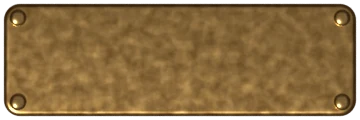
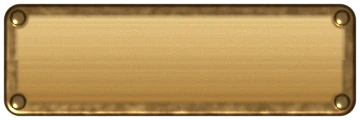
Кнопки читаются: середина табличек — ровный металл со шлифовкой; рама стола снова видна в Safari
Пятнистая кованая фактура под текстом мешала читать и растягивалась на широких кнопках: теперь рант и заклёпки из
рендера, а середина — ровный металл со светом сверху и поперечной шлифовкой (art/ui/build.py, face). Текст контрастнее.
Safari не рисует border-image с var() внутри — у рамы стола толщина теперь в пикселях; на телефоне рама толще (26 px).

Claude-Session: https://claude.ai/code/session_011aycyQpMCHxzpEkC6vRfRo

diff --git a/public/style.css b/public/style.css
@@ -2563,7 +2563,8 @@ svg.av-hover .av-bg, svg.av-hover .av-hero { transition: transform .18s ease-out
   background: radial-gradient(ellipse 75% 70% at 50% 46%, rgb(var(--tb-tint, 255 200 140) / .07), transparent 70%),
     var(--tb-mat, url(/ui/table/v1/mat.webp)) center / cover, #1a110b;
   box-shadow: inset 0 0 0 1px rgb(0 0 0 / .8), inset 0 0 calc(var(--fw) * 1.6) rgb(0 0 0 / .85), inset 0 calc(var(--fw) * .5) calc(var(--fw) * .9) rgb(0 0 0 / .55); }
-.tb-frame { inset: 0; border: var(--fw) solid transparent; border-image: url(/ui/table/v1/frame.webp) 118 / var(--fw) stretch; }
+/* толщина рамы — прямо в пикселях, без var(): Safari не рисует border-image с переменной внутри (на телефоне рама пропадала) */
+.tb-frame { inset: 0; border: 34px solid transparent; border-image: url(/ui/table/v1/frame.webp) 118 / 34px stretch; }
 /* свет: тёплое пятно у свечей и общее мерцание пламени по полю */
 .tb-glow { inset: calc(var(--fw) * .55); border-radius: 4px; mix-blend-mode: screen; opacity: .9;
   background: radial-gradient(ellipse 34% 48% at 6% 6%, rgb(var(--tb-light, 255 160 70) / .32), transparent 70%),
@@ -2611,9 +2612,10 @@ svg.av-hover .av-bg, svg.av-hover .av-hero { transition: transform .18s ease-out
 /* карты на поле отбрасывают тень от света сверху слева */
 .game #stage .stage-inner .card { box-shadow: 0 0 0 1px rgb(0 0 0 / .7), 7px 14px 20px rgb(0 0 0 / .55), 2px 4px 6px rgb(0 0 0 / .45); }
 @media (max-width: 900px) {
-  .table-bg { --fw: 20px; --tb-mat: url(/ui/table/v1/mat-1200.webp); }
-  .game #stage.cave-stage { --fw: 20px; padding: 28px 22px 96px; }
-  .game #stage.cave-stage::before { inset: 20px; }
+  .table-bg { --fw: 26px; --tb-mat: url(/ui/table/v1/mat-1200.webp); }
+  .tb-frame { border-width: 26px; border-image-width: 26px; }
+  .game #stage.cave-stage { --fw: 26px; padding: 32px 26px 96px; }
+  .game #stage.cave-stage::before { inset: 26px; }
   .tp-tl { width: 70px; left: -8px; top: -10px; }
   .tp-tr { width: 60px; right: -6px; top: -8px; }
   .tp-br { width: 72px; right: -6px; bottom: -8px; }
@@ -2793,12 +2795,12 @@ body:has(#world.still) .g-grain { display: none; }
 .btn.danger, .btn.danger:hover:not(:disabled), .btn.hero, .btn.hero:hover:not(:disabled), .btn.spook, .btn.spook:hover:not(:disabled) {
   background: none; border-color: transparent; box-shadow: none; -webkit-backdrop-filter: none; backdrop-filter: none;
 }
-.btn { border: 1px solid transparent; border-image: url(/ui/obj/v1/plate-iron.webp) 36 fill / 11px / 0 stretch; color: #efe4cf;
+.btn { border: 1px solid transparent; border-image: url(/ui/obj/v1/plate-iron.webp) 36 fill / 11px / 0 stretch; color: #f6eedf;
   filter: drop-shadow(0 2px 2px rgb(0 0 0 / .5)); transition: filter .15s, transform .1s; }
-.btn:not(.primary) { text-shadow: 0 -1px 0 rgb(0 0 0 / .8), 0 1px 0 rgb(255 255 255 / .06); }
-.btn.ghost { border-image-source: url(/ui/obj/v1/plate-ghost.webp); color: #e2d6c0; }
-.btn.primary { border-image-source: url(/ui/obj/v1/plate-brass.webp); color: #2a1604; text-shadow: 0 1px 0 rgb(255 232 170 / .55), 0 -1px 0 rgb(70 36 0 / .3); }
-.btn.primary .gi { color: #3c2306; }
+.btn:not(.primary) { text-shadow: 0 1px 2px rgb(0 0 0 / .85); }
+.btn.ghost { border-image-source: url(/ui/obj/v1/plate-ghost.webp); color: #f0e7d8; }
+.btn.primary { border-image-source: url(/ui/obj/v1/plate-brass.webp); color: #1c0e02; text-shadow: 0 1px 0 rgb(255 242 210 / .6); }
+.btn.primary .gi { color: #2a1604; }
 .btn.danger { border-image-source: url(/ui/obj/v1/plate-danger.webp); color: #ffeee6; }
 .btn.hero { border-image-source: url(/ui/obj/v1/plate-hero.webp); color: #effff8; }
 .btn.spook { border-image-source: url(/ui/obj/v1/plate-hero.webp); color: #eef1ff; filter: hue-rotate(95deg) drop-shadow(0 2px 2px rgb(0 0 0 / .5)); }
@@ -2820,8 +2822,8 @@ body:has(#world.still) .g-grain { display: none; }
   color: #eee2cb; text-shadow: 0 -1px 0 rgb(0 0 0 / .8); filter: drop-shadow(0 2px 2px rgb(0 0 0 / .55));
 }
 .game .g-head :is(.market-pill, .contract-pill, .loc-banner, .seat-pill):hover { border-color: transparent; filter: brightness(1.15) drop-shadow(0 2px 2px rgb(0 0 0 / .55)) drop-shadow(0 0 7px rgb(255 196 120 / .3)); }
-.game .g-head :is(.turninfo.mine, .market-pill) { background: none; border-image-source: url(/ui/obj/v1/plate-brass.webp); color: #2a1604; text-shadow: 0 1px 0 rgb(255 232 170 / .5);
-  filter: brightness(1.12) saturate(1.25) drop-shadow(0 2px 2px rgb(0 0 0 / .55)); }
+.game .g-head :is(.turninfo.mine, .market-pill) { background: none; border-image-source: url(/ui/obj/v1/plate-brass.webp); color: #1c0e02; text-shadow: 0 1px 0 rgb(255 242 210 / .55);
+  filter: drop-shadow(0 2px 2px rgb(0 0 0 / .55)); }
 .game .g-head .market-pill .gi { color: #4a2a06; }
 .game .g-head .market-pill.trick { border-image-source: url(/ui/obj/v1/plate-hero.webp); filter: hue-rotate(110deg) drop-shadow(0 2px 2px rgb(0 0 0 / .55)); color: #f6efff; text-shadow: 0 -1px 0 rgb(0 0 0 / .7); }
 .game .g-head .market-pill.trick .gi { color: #f1e2ff; }

diff --git a/art/ui/build.py b/art/ui/build.py
@@ -7,7 +7,8 @@
   parchment.webp       пергамент свитка и ценников (бесшовный, 512 px)
   plank.webp           полка прилавка (бесшовная по горизонтали); boards.webp — задняя стенка лавки; awning.webp — навес
   plate-<вид>.webp     кованые таблички кнопок для border-image (срез 36 px): iron, brass, danger, hero и ghost —
-                       железная оправа с полупрозрачной серединой (собирается здесь из iron)
+                       железная оправа с полупрозрачной серединой (собирается здесь из iron). Рант и заклёпки — из
+                       рендера, середина — ровный металл со шлифовкой (face): на ней читается текст, растяжение не видно
   beam.webp            дубовая балка шапки с коваными хомутами (срез 180 px с торцов)
   roller.webp          валик свитка: пергамент на оси, латунные навершия (срез 120 px с торцов)
   tavern-table.webp    стол лобби-таверны сверху (art/ui/tavern.py): доски, гвозди, потёртости, круги от кружек
@@ -25,19 +26,55 @@ TMP = os.path.expanduser('~/.cache/podzemlei/ui')
 PY = os.environ.get('BLENDER_PY', sys.executable)
 
 
-def ghost(src, dst):
-    """железная оправа: середина таблички полупрозрачная и темнее, рант и заклёпки — как есть"""
-    a = np.asarray(Image.open(src).convert('RGBA')).astype(np.float32)
-    H, W = a.shape[:2]; y, x = np.mgrid[0:H, 0:W].astype(np.float32) + 0.5
+# середина табличек: ровный полированный металл со шлифовкой поперёк — текст читается, растяжение по ширине не заметно
+FACE = {
+    'iron':   ((60, 55, 50), (33, 30, 27)),
+    'brass':  ((236, 204, 138), (168, 122, 56)),
+    'danger': ((156, 44, 30), (96, 22, 14)),
+    'hero':   ((54, 124, 99), (29, 78, 62)),
+}
+
+
+def plate_sdf(W, H):
+    y, x = np.mgrid[0:H, 0:W].astype(np.float32) + 0.5
     hw, hh, r = 176, 56, 16                                  # табличка 3.52×1.12 при 100 px на единицу, скругление 0.16
     qx, qy = np.abs(x - W / 2) - (hw - r), np.abs(y - H / 2) - (hh - r)
-    sdf = np.hypot(np.maximum(qx, 0), np.maximum(qy, 0)) + np.minimum(np.maximum(qx, qy), 0) - r
-    t = np.clip((-sdf - 11) / 3, 0, 1)                       # 0 — рант, 1 — середина
-    rv = np.zeros_like(t)                                    # заклёпки не трогаем
+    return x, y, np.hypot(np.maximum(qx, 0), np.maximum(qy, 0)) + np.minimum(np.maximum(qx, qy), 0) - r
+
+
+def rivets(x, y, W, H):
+    rv = np.zeros_like(x)
     for sx in (-1, 1):
         for sy in (-1, 1):
             rv = np.maximum(rv, np.clip(1 - (np.hypot(x - (W / 2 + sx * 162), y - (H / 2 + sy * 42)) - 9) / 3, 0, 1))
-    t = t * (1 - rv)
+    return rv
+
+
+def face(src, kind):
+    """заменяет пятнистую середину отрендеренной таблички ровной: свет сверху вниз, шлифовка, тень от ранта"""
+    a = np.asarray(Image.open(src).convert('RGBA')).astype(np.float32)
+    H, W = a.shape[:2]; x, y, sdf = plate_sdf(W, H)
+    top, bot = (np.array(c, np.float32) for c in FACE[kind])
+    v = np.clip((y - 14) / (H - 28), 0, 1)[..., None]
+    col = top * (1 - v) + bot * v
+    rng = np.random.default_rng(7)
+    rows = np.convolve(rng.normal(0, 1, H + 8), np.ones(3) / 3, 'same')[4:H + 4]   # шлифовка: свои полосы по каждой строке
+    col = col * (1 + 0.035 * rows[:, None, None] + 0.012 * rng.normal(0, 1, (H, W, 1)))
+    d = -sdf                                                 # глубина от края таблички
+    inner = np.clip((d - 10) / 5, 0, 1)                      # где середина, а где рант
+    shade = 1 - 0.28 * np.exp(-((d - 10) / 3.5) ** 2) * (y > H / 2) - 0.12 * np.exp(-((d - 10) / 3) ** 2)
+    hi = 0.22 * np.exp(-((d - 11) / 2.2) ** 2) * (y < H / 2)  # блик по верхней кромке
+    col = col * shade[..., None] + 255 * hi[..., None]
+    t = (inner * (1 - rivets(x, y, W, H)))[..., None]
+    a[..., :3] = a[..., :3] * (1 - t) + np.clip(col, 0, 255) * t
+    return a
+
+
+def ghost(src, dst):
+    """железная оправа: середина таблички полупрозрачная и темнее, рант и заклёпки — как есть"""
+    a = face(src, 'iron')
+    H, W = a.shape[:2]; x, y, sdf = plate_sdf(W, H)
+    t = np.clip((-sdf - 11) / 3, 0, 1) * (1 - rivets(x, y, W, H))   # 0 — рант и заклёпки, 1 — середина
     a[..., :3] *= (1 - 0.45 * t)[..., None]
     a[..., 3] *= 1 - 0.62 * t
     Image.fromarray(np.clip(a, 0, 255).astype(np.uint8), 'RGBA').save(dst, 'WEBP', quality=90, alpha_quality=95, method=6)
@@ -84,7 +121,9 @@ def main():
     tavern(os.path.join(TMP, 'tavern-table.png'), os.path.join(OUT, 'tavern-table.webp'))
     c = fade(np.asarray(Image.open(os.path.join(TMP, 'chair.png')).convert('RGBA')).astype(np.float32), 0.15)
     Image.fromarray(c.astype(np.uint8), 'RGBA').save(os.path.join(OUT, 'chair.webp'), 'WEBP', quality=88, alpha_quality=92, method=6)
-    for n in ['plate-iron', 'plate-brass', 'plate-danger', 'plate-hero', 'beam', 'roller']:
+    for n in ['iron', 'brass', 'danger', 'hero']:
+        Image.fromarray(face(os.path.join(TMP, f'plate-{n}.png'), n).astype(np.uint8), 'RGBA').save(os.path.join(OUT, f'plate-{n}.webp'), 'WEBP', quality=90, alpha_quality=95, method=6)
+    for n in ['beam', 'roller']:
         Image.open(os.path.join(TMP, n + '.png')).save(os.path.join(OUT, n + '.webp'), 'WEBP', quality=88, alpha_quality=95, method=6)
     ghost(os.path.join(TMP, 'plate-iron.png'), os.path.join(OUT, 'plate-ghost.webp'))
     for n in sorted(os.listdir(OUT)): print(n, os.path.getsize(os.path.join(OUT, n)) // 1024, 'КБ')
